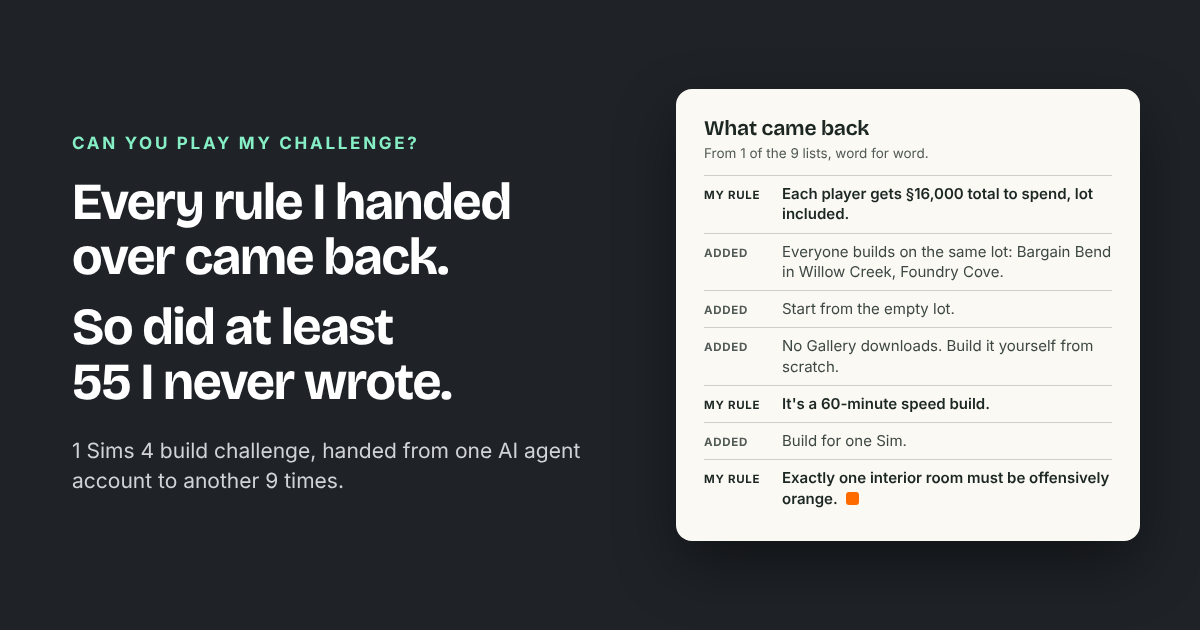
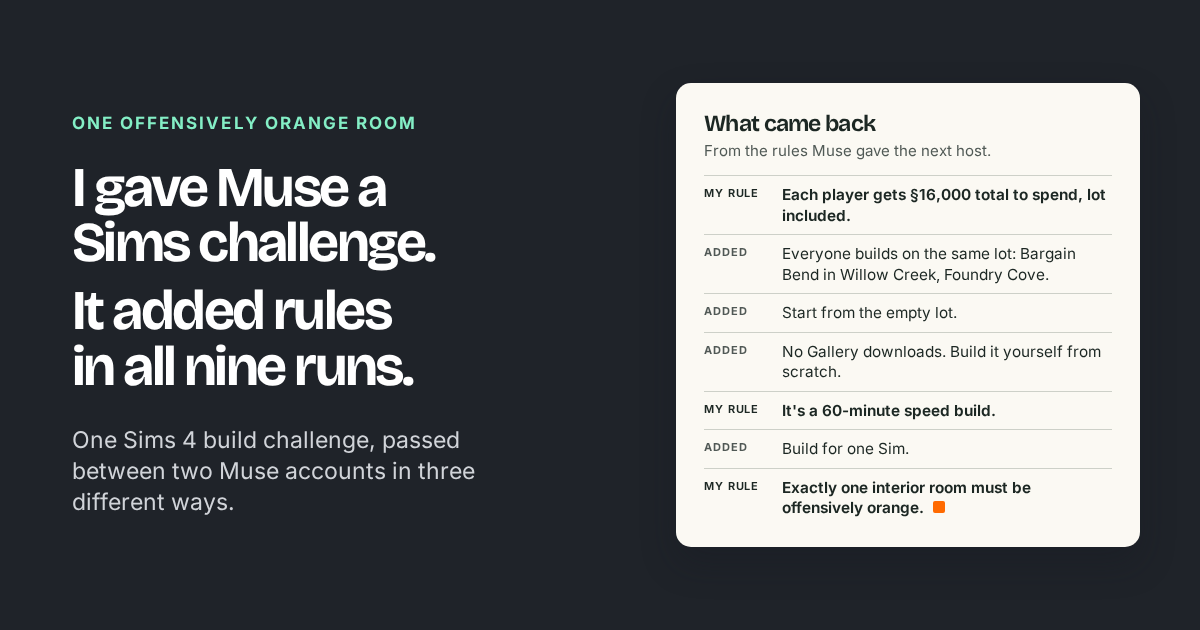
Publish One Offensively Orange Room
Clarify the nine-run Muse handoff test, update the Sims Fan Day caption and refresh the link preview.

diff --git a/index.html b/index.html
@@ -3,20 +3,20 @@
 <head>
 <meta charset="utf-8">
 <meta name="viewport" content="width=device-width,initial-scale=1">
-<title>Can you play my challenge? | A handoff test</title>
-<meta name="description" content="I handed 3 versions of a build challenge from one AI agent account to another, 3 ways each, to see which of my rules arrived.">
+<title>One Offensively Orange Room | A Muse handoff test</title>
+<meta name="description" content="I passed a Sims build challenge between two Muse accounts. In all three card handoffs, the player rules kept my name and picked the lot the card left to the host.">
 <meta name="author" content="Melissa Thorne">
 <link rel="canonical" href="https://beegrrl.github.io/can-you-play-my-challenge/">
-<meta property="og:title" content="Can you play my challenge? | A handoff test">
-<meta property="og:description" content="I handed 3 versions of a build challenge from one AI agent account to another, 3 ways each, to see which of my rules arrived.">
+<meta property="og:title" content="One Offensively Orange Room | A Muse handoff test">
+<meta property="og:description" content="I passed a Sims build challenge between two Muse accounts. In all three card handoffs, the player rules kept my name and picked the lot the card left to the host.">
 <meta property="og:type" content="article">
 <meta property="og:url" content="https://beegrrl.github.io/can-you-play-my-challenge/">
-<meta property="og:image" content="https://beegrrl.github.io/can-you-play-my-challenge/og.png">
+<meta property="og:image" content="https://beegrrl.github.io/can-you-play-my-challenge/og.png?v=orange-room">
 <meta property="og:image:width" content="1200">
 <meta property="og:image:height" content="630">
 <meta property="og:image:alt" content="A list of challenge rules an AI agent handed back. 3 lines are marked as my rules and 4 as added.">
 <meta name="twitter:card" content="summary_large_image">
-<meta name="twitter:image" content="https://beegrrl.github.io/can-you-play-my-challenge/og.png">
+<meta name="twitter:image" content="https://beegrrl.github.io/can-you-play-my-challenge/og.png?v=orange-room">
 <link rel="icon" type="image/svg+xml" href="https://beegrrl.github.io/favicon.svg">
 <link rel="preconnect" href="https://fonts.googleapis.com">
 <link rel="preconnect" href="https://fonts.gstatic.com" crossorigin>
@@ -43,7 +43,6 @@ h2{font-weight:650;font-size:clamp(1.55rem,3.2vw,2.15rem);letter-spacing:-.03em;
 h3{font-weight:650;font-size:1.2rem;letter-spacing:-.02em;line-height:1.25;margin:30px 0 8px}
 p{margin:0 0 14px;max-width:68ch}
 .intro{font-size:1.14rem;color:var(--ink);max-width:62ch}
-.status{font-size:.95rem;color:var(--muted);max-width:62ch;margin-bottom:30px}
 section{padding:42px 0;border-top:1px solid var(--line)}
 .fine{font-size:.93rem;color:var(--muted)}
 
@@ -133,7 +132,7 @@ footer p{max-width:none}
 }
 @media (max-width:560px){
   main,.top,footer{padding-left:18px;padding-right:18px}
-  .top{font-size:.9rem;gap:12px}
+  .top{font-size:.9rem;gap:6px 12px;flex-wrap:wrap}
   .top a,.wordmark{white-space:nowrap}
   .wordmark{font-size:1rem}
   h1{margin-top:30px}
@@ -155,47 +154,56 @@ footer p{max-width:none}
 @media(max-width:520px){.room-pair{gap:10px}.room-label,.room-quote{font-size:.94rem}}
 @media(max-width:350px){.room-pair{grid-template-columns:1fr;gap:14px}}
 
-.study-opening{display:grid;grid-template-columns:minmax(0,1.75fr) minmax(0,1fr);align-items:start;gap:clamp(24px,4vw,44px);margin:22px 0 18px}
-.study-opening p{margin:0}
-.study-opening .opening-question{font-family:"Bricolage Grotesque",Inter,sans-serif;font-size:clamp(1.23rem,2vw,1.5rem);font-weight:600;line-height:1.23;letter-spacing:-.015em;margin-bottom:10px;text-wrap:pretty}
-.opening-prose{font-size:1.0625rem;line-height:1.5}
+.study-opening{max-width:72ch;margin:24px 0}
+.study-opening .opening-question{max-width:44ch;margin:0 0 10px;font:600 clamp(1.25rem,2.4vw,1.55rem)/1.22 "Bricolage Grotesque",Inter,sans-serif;letter-spacing:-.018em;text-wrap:pretty}
+.opening-prose{margin:0;font-size:1.0625rem;line-height:1.55}
+.opening-prose+.opening-prose{margin-top:10px}
 .opening-prose strong{font-weight:650}
-.author-note{border-inline-start:3px solid var(--orange);padding-inline-start:16px;font-size:1rem;line-height:1.45}
-.author-note-head{display:flex;align-items:baseline;gap:12px;flex-wrap:wrap;margin-bottom:6px}
-.author-note-head h2{font-size:1.06rem;letter-spacing:-.01em;margin:0}
-.author-note-head a{font-size:.875rem;color:var(--muted)}
-.author-note a{text-decoration-thickness:1px;text-underline-offset:.16em}
-.author-photo{margin:2px 0 10px}
+main>h1{margin-bottom:10px}
+.status{max-width:none;margin:0;color:var(--muted);font-size:.9rem;line-height:1.45}
+.author-note{display:grid;grid-template-columns:minmax(0,1fr) clamp(196px,27%,236px);gap:24px;align-items:start;padding:18px 0;border-block:1px solid var(--line)}
+.author-note-head{display:flex;align-items:baseline;flex-wrap:wrap;gap:14px;margin-bottom:8px}
+.author-note-head h2{margin:0;font-size:1.2rem;letter-spacing:-.02em}
+.author-note-head a{font-size:.875rem;color:var(--muted);text-decoration-thickness:1px;text-underline-offset:.18em}
+.author-copy p{margin:0;font-size:.98rem;line-height:1.5}
+.author-copy p+p{margin-top:8px}
+.author-photo{margin:0}
 .author-photo img{display:block;width:100%;height:auto;border-radius:3px}
-.author-photo figcaption{margin-top:6px;color:var(--muted);font-size:.8125rem;line-height:1.4}
-@media(max-width:720px){.author-photo{max-width:340px}}
-.author-note a:focus-visible{outline:2px solid var(--ink);outline-offset:3px}
-@media(max-width:720px){.study-opening{grid-template-columns:1fr;gap:17px}.author-note{max-width:60ch}}
+.author-photo figcaption{margin-top:5px;color:var(--muted);font-size:.8rem;line-height:1.4}
+@media(max-width:620px){
+  .study-opening{margin:20px 0}
+  .author-note{grid-template-columns:1fr;gap:14px;padding:16px 0}
+  .author-photo{display:grid;grid-template-columns:minmax(0,1.3fr) minmax(0,1fr);align-items:end;gap:12px;max-width:400px}
+  .author-photo figcaption{margin:0}
+}
+@media(max-width:350px){.author-photo{display:block;max-width:252px}.author-photo figcaption{margin-top:5px}}
 </style>
 </head>
 <body>
 <a class="skip" href="#main">Skip to the page</a>
-<header class="top"><span class="wordmark"><span class="mark" aria-hidden="true"></span>Can you play my challenge?</span><a href="https://beegrrl.github.io/">Melissa Thorne</a></header>
+<header class="top"><span class="wordmark"><span class="mark" aria-hidden="true"></span>One Offensively Orange Room</span><a href="https://beegrrl.github.io/">Melissa Thorne</a></header>
 <main id="main">
-<h1><span>Every rule I handed over came back.</span> <span>So did at least 55 I never wrote.</span></h1>
+<h1><span>I gave Muse a Sims challenge.</span> <span>It added rules in all nine runs.</span></h1>
+<p class="status">Muse kept every final rule it was shown. Two scoring passes counted 55 and 68 added limits across the nine lists. A limit that appeared in two lists counted twice.</p>
 <div class="study-opening">
-  <div>
-    <p class="opening-question">If you invent a challenge and I host the next round, whose rules do the players get?</p>
-    <p class="opening-prose"><strong>I used Muse on my Mac</strong> to make 3 versions of a starter-home challenge in The Sims 4. Muse is Meta's AI agent. Each version called for 1 offensively orange room. I passed each version to a second account 3 ways. I wrote my predictions before any run. Most of them were wrong.</p>
-  </div>
-  <aside class="author-note" aria-labelledby="author-note-title">
+  <p class="opening-question">If you invent a challenge and I host the next round, whose rules do the players get?</p>
+  <p class="opening-prose">In The Sims 4, players can start with the same building prompt and make completely different houses. Mine called for one offensively orange room. I wanted to see whether the next host could use Muse, Meta’s AI agent, to pass my challenge along, keep my name on it and still choose where to build.</p>
+  <p class="opening-prose"><strong>I used Muse on my Mac</strong> to make three versions of the challenge. For each version, a second account got my opening prompt, our full conversation or a card Muse wrote. I asked it for the rules to send to players.</p>
+</div>
+<aside class="author-note" aria-labelledby="author-note-title">
+  <div class="author-copy">
     <div class="author-note-head">
       <h2 id="author-note-title">Why I tried it</h2>
       <a href="https://www.linkedin.com/in/beegirl/" aria-label="Melissa Thorne on LinkedIn">LinkedIn</a>
     </div>
-    <figure class="author-photo">
-      <img src="assets/sims-fan-day-2006.webp" width="604" height="320" alt="Melissa Thorne standing between 2 Sims players in a hallway at Electronic Arts, wearing a badge with a green plumbob.">
-      <figcaption>Me with 2 of the players at Sims Fan Day, Electronic Arts, August 2006.</figcaption>
+    <p>I spent nearly seven years on the core development team for The Sims at Electronic Arts. I started there running the global Sims community and its content creator programs.</p>
+    <p>Developer betas were a big part of my work at Oracle. At Chainlink, I ran beta groups in developer marketing and brought their feedback to Product and Engineering.</p>
+  </div>
+  <figure class="author-photo">
+      <img src="assets/sims-fan-day-2006.webp" width="604" height="320" alt="Melissa Thorne, wearing a green plumbob badge, stands between two Sims custom content creators in a hallway at Electronic Arts.">
+      <figcaption>With two of the custom content creators invited to Sims Fan Day at Electronic Arts, August 2006. They ran Sims communities of their own.</figcaption>
     </figure>
-    <p>I ran the global community for The Sims at Electronic Arts. Developer betas were a big part of my work at Oracle. At Chainlink, I ran beta groups in developer marketing and brought their feedback to Product and Engineering.</p>
-  </aside>
-</div>
-<p class="status">The 55 is the lower of 2 counts across the 9 lists, and the same limit often counts in several.</p>
+</aside>
 <figure class="room-figure">
   <div class="room-pair">
     <div>

diff --git a/README.md b/README.md
@@ -1,4 +1,4 @@
-# Can you play my challenge?
+# One Offensively Orange Room
 
 A test of what survives when one person hands a challenge to another through an AI agent.
 
